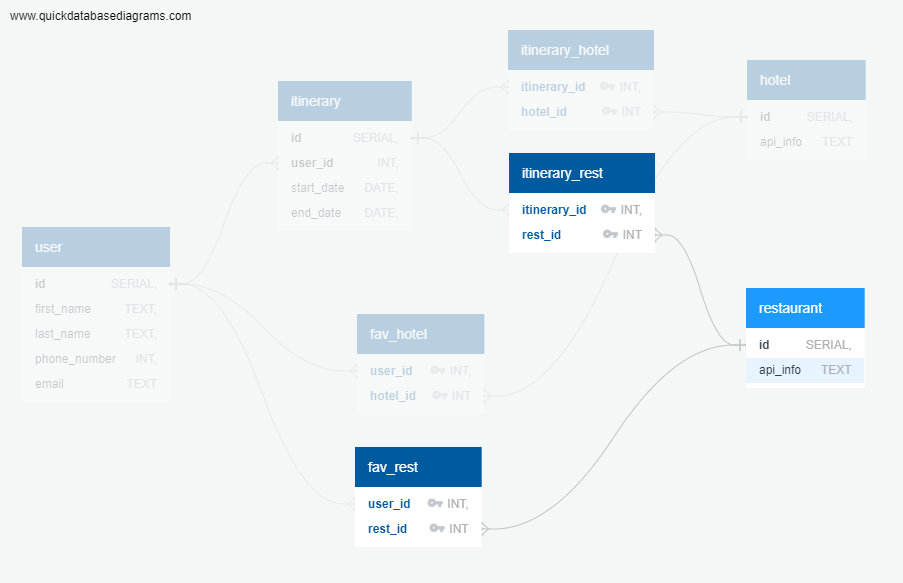
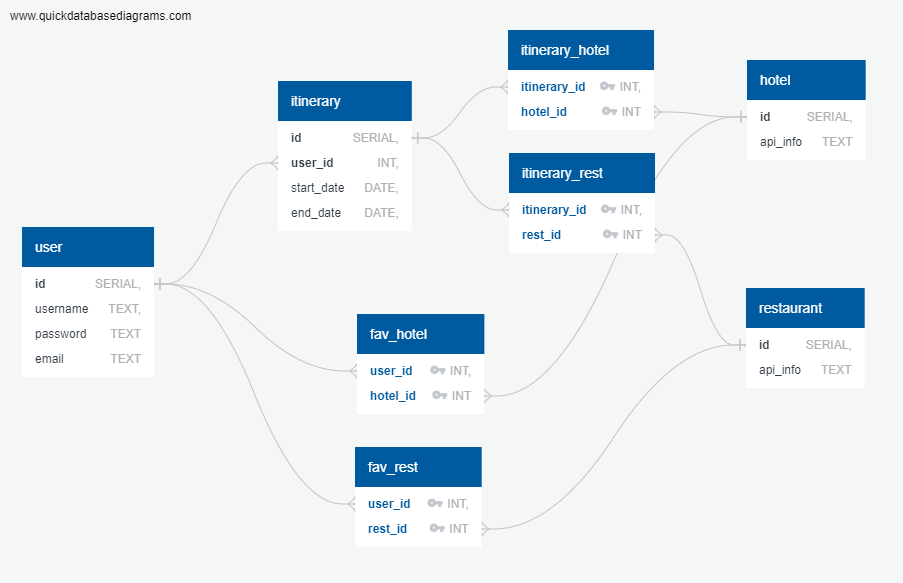
signup

diff --git a/templates/base.html b/templates/base.html
@@ -4,15 +4,21 @@
     <meta charset="UTF-8">
     <meta http-equiv="X-UA-Compatible" content="IE=edge">
     <meta name="viewport" content="width=device-width, initial-scale=1.0">
-    <title>Conceirge</title>
+    <title>The Conceirge</title>
     <script src="https://unpkg.com/jquery"></script>
     <script src="https://polyfill.io/v3/polyfill.min.js?features=default"></script>
     <link rel="stylesheet" type="text/css" href="/static/code_base.css" />
 </head>
 <body>
-    {% block content %}
-  {% endblock %}
+    <div class="container">
+      {% for category, message in get_flashed_messages(with_categories=True) %}
+      <div class="alert alert-{{ category }}">{{ message }}</div>
+      {% endfor %}
     
+      {% block content %}
+      {% endblock %}
+    </div>
+
     <script src="https://unpkg.com/axios/dist/axios.js"></script>
     <script src="/static/code_base.js"></script>
     <script

diff --git a/templates/signup.html b/templates/signup.html
@@ -1,0 +1,20 @@
+{% extends 'base.html' %}
+
+{% block content %}
+
+<div>
+    <form method="POST">
+        {{ form.hidden_tag() }}
+  
+        {% for field in form if field.widget.input_type != 'hidden' %}
+          {{field.label}}:{{ field(required=False)}}
+          {% for error in field.errors %}
+            <span class="text-danger">{{ error }}</span>
+          {% endfor %}
+        {% endfor %}
+  
+        <button class="btn btn-primary btn-lg btn-block">Sign me up!</button>
+      </form>
+</div>
+
+{% endblock %}

diff --git a/templates/home.html b/templates/home.html
@@ -1,0 +1,11 @@
+{% extends 'base.html' %}
+
+{% block content %}
+<div>
+    <h1>Welcome to The Conceirge</h1>
+    <p>Sign up to create your itinerary!</p>
+    <a href="/signup">Sign up</a>
+    <p>Already signed up? <a href="/login">Log in</a></p>
+</div>
+
+{% endblock %}

diff --git a/templates/user_info.html b/templates/user_info.html
@@ -1,0 +1,11 @@
+{% extends 'base.html' %}
+
+{% block content %}
+
+<div>
+    <p>Username: {{user.username}}</p>
+    <p>Username: {{user.email}}</p>
+    <button><a href="/user/{{user.id}}/map">Create Itinerary</a></button>
+</div>
+
+{% endblock %}

diff --git a/app.py b/app.py
@@ -1,10 +1,13 @@
 import os
 
-from flask import Flask, redirect, render_template, flash
+from flask import Flask, redirect, render_template, flash, session, g
 from flask_debugtoolbar import DebugToolbarExtension
 from models import db, connect_db, User, Itinerary, Itinerary_hotel, Itinerary_restaurant, Hotel, Restaurant, Fav_Hotel, Fav_Rest
+from forms import SignupForm
+from sqlalchemy.exc import IntegrityError
 
 app = Flask(__name__)
+CURR_USER_KEY = "curr_user"
 
 app.config['SQLALCHEMY_DATABASE_URI'] = (
     os.environ.get('DATABASE_URL', 'postgresql:///user_itinerary'))
@@ -18,6 +21,59 @@ toolbar = DebugToolbarExtension(app)
 connect_db(app)
 db.create_all()
 
+@app.before_request
+def add_user_to_g():
+    """If we're logged in, add curr user to Flask global."""
+
+    if CURR_USER_KEY in session:
+        g.user = User.query.get(session[CURR_USER_KEY])
+    else:
+        g.user = None
+
+
+def do_login(user):
+    """Log in user."""
+
+    session[CURR_USER_KEY] = user.id
+
+
+def do_logout():
+    """Logout user."""
+
+    if CURR_USER_KEY in session:
+        del session[CURR_USER_KEY]
+
+
 @app.route("/")
-def root():
-     return render_template("base.html")
+def home_page():
+     return render_template("home.html")
+
+
+@app.route("/signup", methods=["GET", "POST"])
+def signup():
+    form = SignupForm()
+
+    if form.validate_on_submit():
+        try:
+            user = User.signup(
+                username=form.username.data,
+                password=form.password.data,
+                email=form.email.data,
+            )
+            db.session.commit()
+            return redirect(f"/user/{user.id}")
+        except IntegrityError:
+            flash("Username already taken", 'danger')
+            return render_template('signup.html', form=form)
+
+    return render_template("signup.html", form=form)
+
+
+@app.route("/user/<int:user_id>")
+def show_user_page(user_id):
+    user = User.query.get_or_404(user_id)
+    return render_template("user_info.html", user=user)
+
+@app.route("/user/<int:user_id>/map")
+def show_map(user_id):
+    return

diff --git a/models.py b/models.py
@@ -1,7 +1,8 @@
 from flask_sqlalchemy import SQLAlchemy
-from sqlalchemy_utils import EmailType
+from flask_bcrypt import Bcrypt
 
 db = SQLAlchemy()
+bcrypt = Bcrypt()
 
 def connect_db(app):
     db.app = app
@@ -13,13 +14,26 @@ class User(db.Model):
     __tablename__ = "users"
 
     id = db.Column(db.Integer, primary_key=True, autoincrement=True)
-    first_name = db.Column(db.TEXT, nullable=False)
-    last_name = db.Column(db.TEXT, nullable=False)
+    username = db.Column(db.TEXT, nullable=False, unique=True)
     email = db.Column(db.TEXT, nullable=False)
-    phone_number = db.Column(db.TEXT, nullable=True)
+    password = db.Column(db.TEXT, nullable=False)
 
     def __repr__(self):
-        return f"<User {self.first_name} {self.last_name}, {self.email}>"
+        return f"<User {self.username}, {self.email}, {self.password}>"
+
+    @classmethod
+    def signup(cls, username, email, password):
+   
+        hashed_pwd = bcrypt.generate_password_hash(password).decode('UTF-8')
+
+        user = User(
+            username=username,
+            email=email,
+            password=hashed_pwd,
+        )
+
+        db.session.add(user)
+        return user
 
 class Itinerary(db.Model):
 

diff --git a/forms.py b/forms.py
@@ -1,0 +1,17 @@
+from flask_wtf import FlaskForm
+from wtforms import StringField, PasswordField, TextAreaField, SubmitField
+from wtforms.validators import InputRequired, Email, Length
+# from wtforms_alchemy import model_form_factory
+from models import db, User
+
+# BaseModelForm = model_form_factory(FlaskForm)
+
+# class ModelForm(BaseModelForm):
+#     @classmethod
+#     def get_session(self):
+#         return db.session
+
+class SignupForm(FlaskForm):
+    username = StringField('Username', validators=[InputRequired(message="Username can't be blank")])
+    email = StringField('E-mail', validators=[InputRequired(message="Email can't be blank"), Email()])
+    password = PasswordField('Password', validators=[Length(min=6)])
